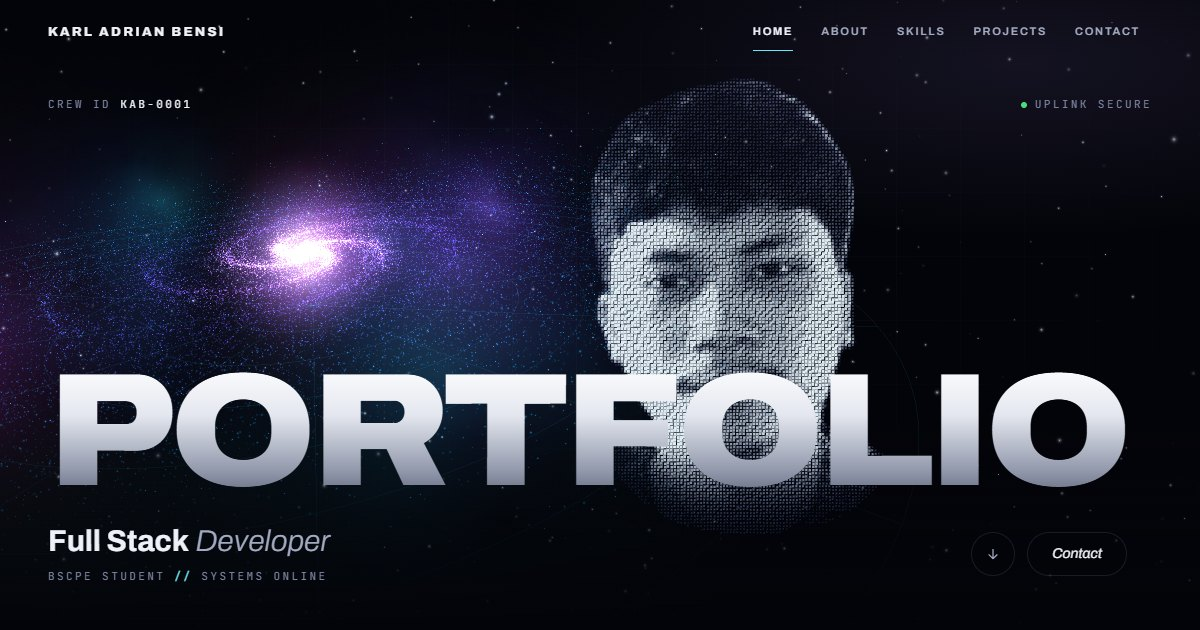
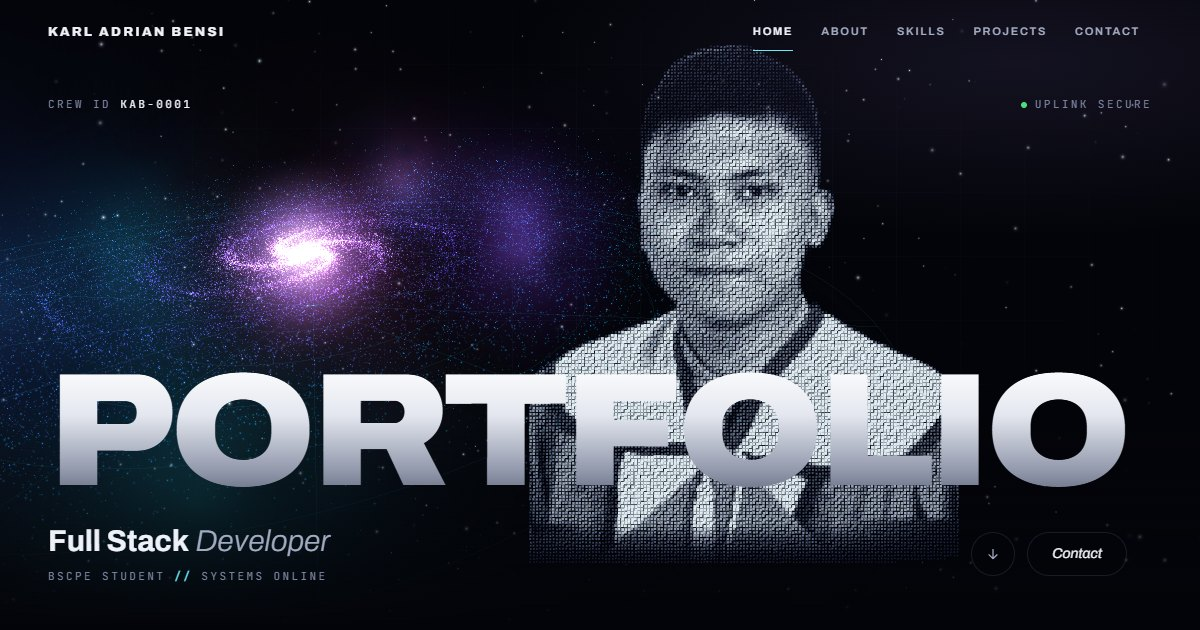
Hero portrait: full graduation photo as the black-and-white star portrait
The graduation portrait (watermarks painted out, background removed) now
drives the halftone star portrait behind the title; share image refreshed.

Changed region(s): [[0.0, 0.0603, 0.8017, 0.9048], [0.37, 0.6333, 0.4008, 0.6937], [0.3083, 0.6333, 0.3392, 0.6635]]

diff --git a/src/components/Hero.tsx b/src/components/Hero.tsx
@@ -216,7 +216,7 @@ export function Hero({ stage, skipped, onSkip }: { stage: number; skipped: boole
         aria-hidden
         className="pointer-events-none absolute inset-x-0 bottom-0 z-[4] h-1/3 bg-gradient-to-t from-void via-void/60 to-transparent"
       />
-      <ParticlePortrait src="/karl-face.webp" active={settled} instant={skipped} />
+      <ParticlePortrait src="/karl-grad.webp" active={settled} instant={skipped} />
 
       <motion.div
         style={{ y, opacity }}

diff --git a/README.md b/README.md
@@ -21,7 +21,7 @@ Open http://localhost:5173.
 
 Name, bio, contact links, projects and skills live in [`src/data/content.ts`](src/data/content.ts). In the bio, wrap text in `**double asterisks**` to highlight it. A project's `status` can be `"live"` or `"wip"` (shows the amber "In development" badge).
 
-There are two photos. [`public/karl-face.webp`](public/karl-face.webp) is a face cut-out with a transparent background; the hero redraws it as an interactive black-and-white dot portrait behind the title. [`public/karl-full.webp`](public/karl-full.webp) is shown whole on the crew card in About (its panel uses `aspect-[416/952]`, so update that if you swap in a photo with a different shape).
+There are two photos. [`public/karl-grad.webp`](public/karl-grad.webp) is the graduation portrait, cut out with a transparent background; the hero redraws it as an interactive black-and-white dot portrait behind the title. [`public/karl-full.webp`](public/karl-full.webp) is shown whole on the crew card in About (its panel uses `aspect-[416/952]`, so update that if you swap in a photo with a different shape).
 
 ### Project previews
 
